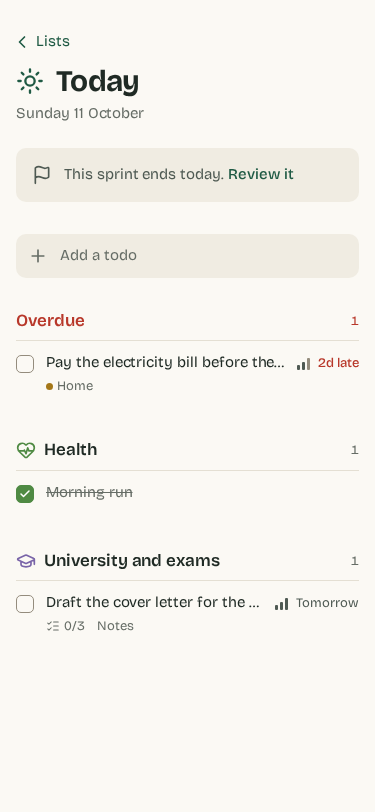
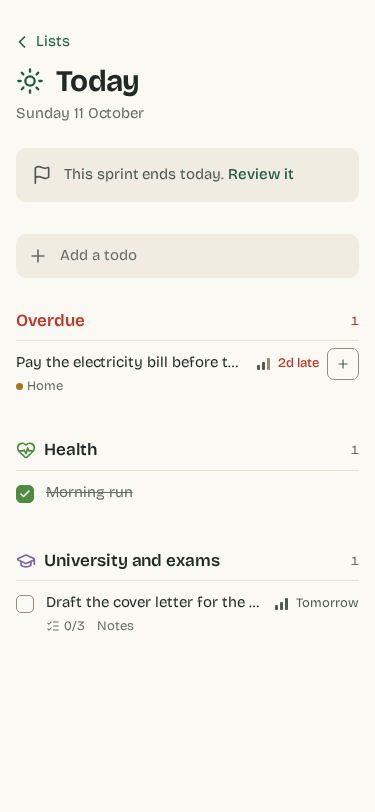
flow(build-life-manager): verification

Changed region(s): [[0.0293, 0.431, 0.968, 0.4926]]

diff --git a/openspec/changes/build-life-manager/verification.md b/openspec/changes/build-life-manager/verification.md
@@ -1,38 +1,39 @@
-verified-at: af15390
+verified-at: 4ebe184
 
 ## Layer 1 — `PORT=4700 npm run proof:full` (green, exit 0)
 
 - `npm run check`: svelte-check 433 files, 0 errors, 0 warnings (svelte-kit sync prints a `config_option_deprecated_alias` notice for `alias: { $lib }` in `vite.config.ts`)
 - `npm run build`: ok
-- `npm run test:unit`: 8 files, 62 tests passed
-- `npm run test:e2e`: 86 passed
+- `npm run test:unit`: 8 files, 68 tests passed
+- `npm run test:e2e`: 89 passed
 
 ```
-  ✓  69 e2e/sprint-views.test.ts:394:2 › on a touch phone › Scenario: Phone shows one day at a time (207ms)
-  ✓  70 e2e/today.test.ts:27:1 › Scenario: Today shows today's sprint todos and overdue todos (138ms)
-  ✓  71 e2e/today.test.ts:55:1 › An overdue todo planned for today is listed once, under Overdue (110ms)
-  ✓  72 e2e/today.test.ts:67:1 › Scenario: Status toggle on Today (208ms)
-  ✓  73 e2e/today.test.ts:85:1 › Scenario: Quick add on Today adds to the sprint on today (507ms)
-  ✓  74 e2e/today.test.ts:105:1 › Scenario: Today without an active sprint prompts to plan (95ms)
-  ✓  75 e2e/today.test.ts:117:1 › Scenario: Today with a pending review prompts to review (152ms)
-  ✓  76 e2e/today.test.ts:141:1 › Scenario: Nothing today shows a calm empty state (108ms)
-  ✓  77 e2e/today.test.ts:159:1 › Scenario: Sunday after the review prompts to plan next week (114ms)
-  ✓  78 e2e/todos.test.ts:28:1 › GET /todos redirects to the backlog (113ms)
-  ✓  79 e2e/todos.test.ts:34:1 › Scenario: Quick add creates a todo in the backlog (473ms)
-  ✓  80 e2e/todos.test.ts:53:1 › Quick add rejects an empty title inline (422ms)
-  ✓  81 e2e/todos.test.ts:63:1 › Scenario: Past due date is allowed and shown overdue (460ms)
-  ✓  82 e2e/todos.test.ts:74:1 › Quick add on phone opens a sheet (557ms)
-  ✓  83 e2e/todos.test.ts:92:1 › Scenario: Edit every field of a todo (681ms)
-  ✓  84 e2e/todos.test.ts:127:1 › Scenario: Checklist items are added, renamed, toggled and deleted (800ms)
-  ✓  85 e2e/todos.test.ts:163:1 › Scenario: Deleting a todo asks for confirmation (1.6s)
-  ✓  86 e2e/todos.test.ts:184:1 › Editing on phone uses a sheet (580ms)
+  ✓  71 e2e/today.test.ts:27:1 › Scenario: Today shows today's sprint todos and overdue todos (118ms)
+  ✓  72 e2e/today.test.ts:55:1 › An overdue todo planned for today is listed once, under Overdue (118ms)
+  ✓  73 e2e/today.test.ts:67:1 › Scenario: Status toggle on Today (253ms)
+  ✓  74 e2e/today.test.ts:94:1 › Scenario: Overdue todos outside the sprint offer the sprint instead of a checkbox (188ms)
+  ✓  75 e2e/today.test.ts:114:1 › Scenario: Quick add on Today adds to the sprint on today (483ms)
+  ✓  76 e2e/today.test.ts:134:1 › No quick add on the Sunday before next week's sprint starts (92ms)
+  ✓  77 e2e/today.test.ts:143:1 › Scenario: Today without an active sprint prompts to plan (112ms)
+  ✓  78 e2e/today.test.ts:155:1 › Scenario: Today with a pending review prompts to review (137ms)
+  ✓  79 e2e/today.test.ts:179:1 › Scenario: Nothing today shows a calm empty state (104ms)
+  ✓  80 e2e/today.test.ts:197:1 › Scenario: Sunday after the review prompts to plan next week (253ms)
+  ✓  81 e2e/todos.test.ts:28:1 › GET /todos redirects to the backlog (105ms)
+  ✓  82 e2e/todos.test.ts:34:1 › Scenario: Quick add creates a todo in the backlog (451ms)
+  ✓  83 e2e/todos.test.ts:53:1 › Quick add rejects an empty title inline (403ms)
+  ✓  84 e2e/todos.test.ts:63:1 › Scenario: Past due date is allowed and shown overdue (427ms)
+  ✓  85 e2e/todos.test.ts:74:1 › Quick add on phone opens a sheet (573ms)
+  ✓  86 e2e/todos.test.ts:92:1 › Scenario: Edit every field of a todo (663ms)
+  ✓  87 e2e/todos.test.ts:127:1 › Scenario: Checklist items are added, renamed, toggled and deleted (823ms)
+  ✓  88 e2e/todos.test.ts:163:1 › Scenario: Deleting a todo asks for confirmation (1.6s)
+  ✓  89 e2e/todos.test.ts:184:1 › Editing on phone uses a sheet (580ms)
 
-  86 passed (32.5s)
+  89 passed (33.2s)
 ```
 
 ## Layer 2 — spec coverage
 
-102 scenarios: unit 32/32 ✓ · e2e 64/64 ✓ · manual 6 · gaps 0.
+104 scenarios: unit 32/32 ✓ · e2e 66/66 ✓ · manual 6 · gaps 0.
 Each unit/e2e row was matched by its exact `Scenario: <title>` in the passed lines of the run above.
 
 | Capability | Scenario | proof | Evidence |
@@ -108,6 +109,7 @@ Each unit/e2e row was matched by its exact `Scenario: <title>` in the passed lin
 | sprint-views | Checkbox toggles done | e2e | `e2e/sprint-views.test.ts` › "Scenario: Checkbox toggles done" ✓ |
 | sprint-views | Unchecking done returns to To do | unit | `src/lib/server/sprints.test.ts` › "Scenario: Unchecking done returns to To do" ✓ |
 | sprint-views | Sprint screens prompt to review when pending | e2e | `e2e/sprint-views.test.ts` › "Scenario: Sprint screens prompt to review when pending" ✓ |
+| sprint-views | Sunday shows the review prompt above the sprint | e2e | `e2e/sprint-views.test.ts` › "Scenario: Sunday shows the review prompt above the sprint" ✓ |
 | sprint-views | Sprint by aspect groups todos with status | e2e | `e2e/sprint-views.test.ts` › "Scenario: Sprint by aspect groups todos with status" ✓ |
 | sprint-views | Aspects without sprint todos are hidden | e2e | `e2e/sprint-views.test.ts` › "Scenario: Aspects without sprint todos are hidden" ✓ |
 | sprint-views | Empty sprint points to the backlog | e2e | `e2e/sprint-views.test.ts` › "Scenario: Empty sprint points to the backlog" ✓ |
@@ -123,6 +125,7 @@ Each unit/e2e row was matched by its exact `Scenario: <title>` in the passed lin
 | today | Today shows today's sprint todos and overdue todos | e2e | `e2e/today.test.ts` › "Scenario: Today shows today's sprint todos and overdue todos" ✓ |
 | today | Overdue means due before today and not done | unit | `src/lib/server/todos.test.ts` › "Scenario: Overdue means due before today and not done" ✓ |
 | today | Status toggle on Today | e2e | `e2e/today.test.ts` › "Scenario: Status toggle on Today" ✓ |
+| today | Overdue todos outside the sprint offer the sprint instead of a checkbox | e2e | `e2e/today.test.ts` › "Scenario: Overdue todos outside the sprint offer the sprint instead of a checkbox" ✓ |
 | today | Quick add on Today adds to the sprint on today | e2e | `e2e/today.test.ts` › "Scenario: Quick add on Today adds to the sprint on today" ✓ |
 | today | Today without an active sprint prompts to plan | e2e | `e2e/today.test.ts` › "Scenario: Today without an active sprint prompts to plan" ✓ |
 | today | Today with a pending review prompts to review | e2e | `e2e/today.test.ts` › "Scenario: Today with a pending review prompts to review" ✓ |
@@ -153,13 +156,13 @@ Start: `npm run dev` → http://localhost:5173 (empty DB redirects to `/welcome`
 
 ## Diffstat
 
-`git diff --stat 4b825dc642cb6eb9a060e54bf8d69288fbee4904 flow/build-life-manager`:
+`git diff --stat 4b825dc642cb6eb9a060e54bf8d69288fbee4904 flow/build-life-manager` (at 4ebe184, before this commit):
 
-- total: 203 files changed, 19894 insertions(+)
-- src/: 77 files changed, 8146 insertions(+)
-- e2e/: 14 files changed, 1997 insertions(+)
+- total: 224 files changed, 20316 insertions(+)
+- src/: 77 files changed, 8270 insertions(+)
+- e2e/: 14 files changed, 2069 insertions(+)
 - design/: 76 files changed, 4851 insertions(+)
-- openspec/: 18 files changed, 1539 insertions(+)
+- openspec/: 39 files changed, 1765 insertions(+)
 - other (root config, README, lockfile): 18 files changed, 3361 insertions(+)
 
 ## Screenshots
